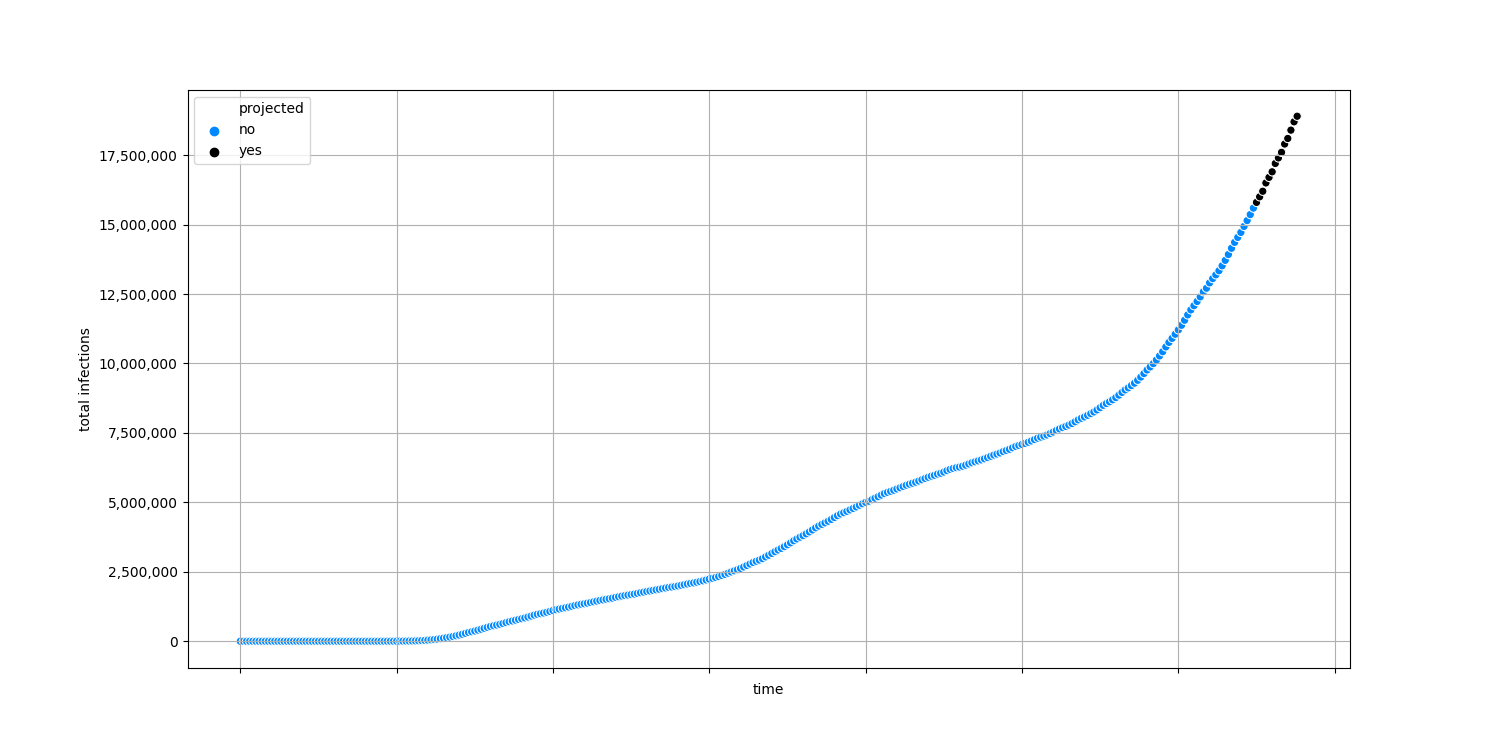
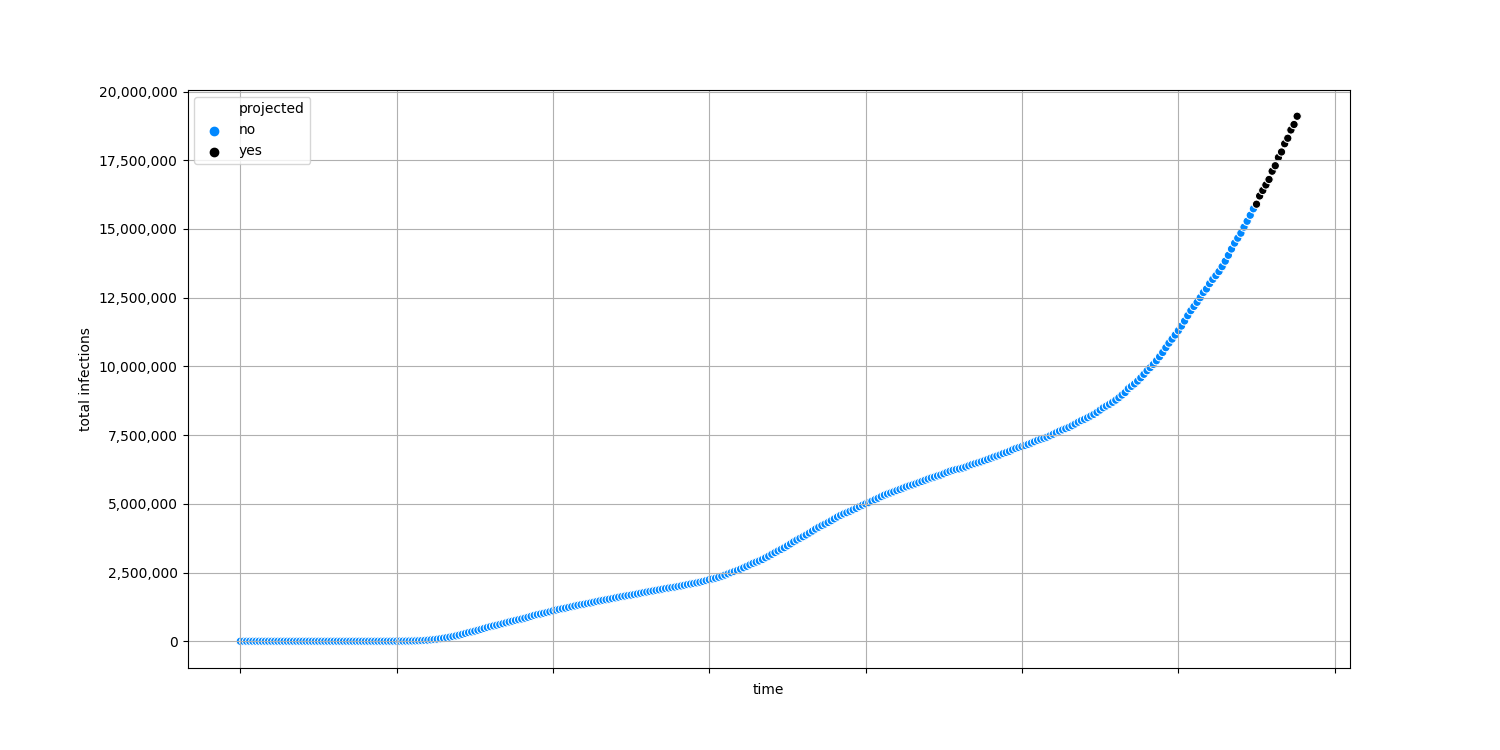
regular update

diff --git a/docs/table.html b/docs/table.html
@@ -100,7 +100,7 @@
     <script type="text/javascript">
       window.addEventListener('DOMContentLoaded', () => {
 
-        const data = [{'state': 'Alabama', 'deaths_per_million_per_day': '8', 'positive_per_million_per_day': '716'}, {'state': 'Alaska', 'deaths_per_million_per_day': '5', 'positive_per_million_per_day': '912'}, {'state': 'American Samoa', 'deaths_per_million_per_day': '0', 'positive_per_million_per_day': '0'}, {'state': 'Arizona', 'deaths_per_million_per_day': '7', 'positive_per_million_per_day': '807'}, {'state': 'Arkansas', 'deaths_per_million_per_day': '13', 'positive_per_million_per_day': '689'}, {'state': 'California', 'deaths_per_million_per_day': '4', 'positive_per_million_per_day': '671'}, {'state': 'Colorado', 'deaths_per_million_per_day': '11', 'positive_per_million_per_day': '739'}, {'state': 'Connecticut', 'deaths_per_million_per_day': '9', 'positive_per_million_per_day': '673'}, {'state': 'Delaware', 'deaths_per_million_per_day': '4', 'positive_per_million_per_day': '818'}, {'state': 'District of Columbia', 'deaths_per_million_per_day': '3', 'positive_per_million_per_day': '391'}, {'state': 'Florida', 'deaths_per_million_per_day': '5', 'positive_per_million_per_day': '426'}, {'state': 'Georgia', 'deaths_per_million_per_day': '4', 'positive_per_million_per_day': '388'}, {'state': 'Guam', 'deaths_per_million_per_day': '0', 'positive_per_million_per_day': '97'}, {'state': 'Hawaii', 'deaths_per_million_per_day': '2', 'positive_per_million_per_day': '70'}, {'state': 'Idaho', 'deaths_per_million_per_day': '9', 'positive_per_million_per_day': '914'}, {'state': 'Illinois', 'deaths_per_million_per_day': '14', 'positive_per_million_per_day': '721'}, {'state': 'Indiana', 'deaths_per_million_per_day': '12', 'positive_per_million_per_day': '966'}, {'state': 'Iowa', 'deaths_per_million_per_day': '27', 'positive_per_million_per_day': '471'}, {'state': 'Kansas', 'deaths_per_million_per_day': '13', 'positive_per_million_per_day': '870'}, {'state': 'Kentucky', 'deaths_per_million_per_day': '4', 'positive_per_million_per_day': '731'}, {'state': 'Louisiana', 'deaths_per_million_per_day': '6', 'positive_per_million_per_day': '530'}, {'state': 'Maine', 'deaths_per_million_per_day': '3', 'positive_per_million_per_day': '245'}, {'state': 'Maryland', 'deaths_per_million_per_day': '6', 'positive_per_million_per_day': '483'}, {'state': 'Massachusetts', 'deaths_per_million_per_day': '7', 'positive_per_million_per_day': '696'}, {'state': 'Michigan', 'deaths_per_million_per_day': '12', 'positive_per_million_per_day': '628'}, {'state': 'Minnesota', 'deaths_per_million_per_day': '10', 'positive_per_million_per_day': '851'}, {'state': 'Mississippi', 'deaths_per_million_per_day': '10', 'positive_per_million_per_day': '668'}, {'state': 'Missouri', 'deaths_per_million_per_day': '8', 'positive_per_million_per_day': '590'}, {'state': 'Montana', 'deaths_per_million_per_day': '7', 'positive_per_million_per_day': '771'}, {'state': 'Nebraska', 'deaths_per_million_per_day': '12', 'positive_per_million_per_day': '842'}, {'state': 'Nevada', 'deaths_per_million_per_day': '8', 'positive_per_million_per_day': '881'}, {'state': 'New Hampshire', 'deaths_per_million_per_day': '4', 'positive_per_million_per_day': '562'}, {'state': 'New Jersey', 'deaths_per_million_per_day': '6', 'positive_per_million_per_day': '573'}, {'state': 'New Mexico', 'deaths_per_million_per_day': '12', 'positive_per_million_per_day': '809'}, {'state': 'New York', 'deaths_per_million_per_day': '4', 'positive_per_million_per_day': '508'}, {'state': 'North Carolina', 'deaths_per_million_per_day': '4', 'positive_per_million_per_day': '529'}, {'state': 'North Dakota', 'deaths_per_million_per_day': '24', 'positive_per_million_per_day': '749'}, {'state': 'Northern Mariana Islands', 'deaths_per_million_per_day': '0', 'positive_per_million_per_day': '18'}, {'state': 'Ohio', 'deaths_per_million_per_day': '7', 'positive_per_million_per_day': '1,039'}, {'state': 'Oklahoma', 'deaths_per_million_per_day': '5', 'positive_per_million_per_day': '773'}, {'state': 'Oregon', 'deaths_per_million_per_day': '5', 'positive_per_million_per_day': '358'}, {'state': 'Pennsylvania', 'deaths_per_million_per_day': '12', 'positive_per_million_per_day': '786'}, {'state': 'Puerto Rico', 'deaths_per_million_per_day': '4', 'positive_per_million_per_day': '240'}, {'state': 'Rhode Island', 'deaths_per_million_per_day': '13', 'positive_per_million_per_day': '1,150'}, {'state': 'South Carolina', 'deaths_per_million_per_day': '4', 'positive_per_million_per_day': '517'}, {'state': 'South Dakota', 'deaths_per_million_per_day': '24', 'positive_per_million_per_day': '868'}, {'state': 'Tennessee', 'deaths_per_million_per_day': '10', 'positive_per_million_per_day': '851'}, {'state': 'Texas', 'deaths_per_million_per_day': '7', 'positive_per_million_per_day': '399'}, {'state': 'U.S. Virgin Islands', 'deaths_per_million_per_day': '0', 'positive_per_million_per_day': '200'}, {'state': 'Utah', 'deaths_per_million_per_day': '4', 'positive_per_million_per_day': '881'}, {'state': 'Vermont', 'deaths_per_million_per_day': '3', 'positive_per_million_per_day': '165'}, {'state': 'Virginia', 'deaths_per_million_per_day': '3', 'positive_per_million_per_day': '444'}, {'state': 'Washington', 'deaths_per_million_per_day': '3', 'positive_per_million_per_day': '366'}, {'state': 'West Virginia', 'deaths_per_million_per_day': '11', 'positive_per_million_per_day': '693'}, {'state': 'Wisconsin', 'deaths_per_million_per_day': '11', 'positive_per_million_per_day': '745'}, {'state': 'Wyoming', 'deaths_per_million_per_day': '10', 'positive_per_million_per_day': '776'}, {'state': 'United States', 'deaths_per_million_per_day': '7', 'positive_per_million_per_day': '619'}];
+        const data = [{'state': 'Alabama', 'deaths_per_million_per_day': '8', 'positive_per_million_per_day': '716'}, {'state': 'Alaska', 'deaths_per_million_per_day': '5', 'positive_per_million_per_day': '912'}, {'state': 'American Samoa', 'deaths_per_million_per_day': '0', 'positive_per_million_per_day': '0'}, {'state': 'Arizona', 'deaths_per_million_per_day': '7', 'positive_per_million_per_day': '807'}, {'state': 'Arkansas', 'deaths_per_million_per_day': '13', 'positive_per_million_per_day': '689'}, {'state': 'California', 'deaths_per_million_per_day': '4', 'positive_per_million_per_day': '671'}, {'state': 'Colorado', 'deaths_per_million_per_day': '11', 'positive_per_million_per_day': '739'}, {'state': 'Connecticut', 'deaths_per_million_per_day': '9', 'positive_per_million_per_day': '673'}, {'state': 'Delaware', 'deaths_per_million_per_day': '4', 'positive_per_million_per_day': '818'}, {'state': 'District of Columbia', 'deaths_per_million_per_day': '3', 'positive_per_million_per_day': '391'}, {'state': 'Florida', 'deaths_per_million_per_day': '5', 'positive_per_million_per_day': '426'}, {'state': 'Georgia', 'deaths_per_million_per_day': '4', 'positive_per_million_per_day': '388'}, {'state': 'Guam', 'deaths_per_million_per_day': '0', 'positive_per_million_per_day': '97'}, {'state': 'Hawaii', 'deaths_per_million_per_day': '2', 'positive_per_million_per_day': '70'}, {'state': 'Idaho', 'deaths_per_million_per_day': '9', 'positive_per_million_per_day': '914'}, {'state': 'Illinois', 'deaths_per_million_per_day': '14', 'positive_per_million_per_day': '721'}, {'state': 'Indiana', 'deaths_per_million_per_day': '12', 'positive_per_million_per_day': '966'}, {'state': 'Iowa', 'deaths_per_million_per_day': '27', 'positive_per_million_per_day': '471'}, {'state': 'Kansas', 'deaths_per_million_per_day': '13', 'positive_per_million_per_day': '870'}, {'state': 'Kentucky', 'deaths_per_million_per_day': '4', 'positive_per_million_per_day': '731'}, {'state': 'Louisiana', 'deaths_per_million_per_day': '6', 'positive_per_million_per_day': '530'}, {'state': 'Maine', 'deaths_per_million_per_day': '3', 'positive_per_million_per_day': '245'}, {'state': 'Maryland', 'deaths_per_million_per_day': '6', 'positive_per_million_per_day': '483'}, {'state': 'Massachusetts', 'deaths_per_million_per_day': '7', 'positive_per_million_per_day': '696'}, {'state': 'Michigan', 'deaths_per_million_per_day': '12', 'positive_per_million_per_day': '628'}, {'state': 'Minnesota', 'deaths_per_million_per_day': '10', 'positive_per_million_per_day': '851'}, {'state': 'Mississippi', 'deaths_per_million_per_day': '10', 'positive_per_million_per_day': '668'}, {'state': 'Missouri', 'deaths_per_million_per_day': '8', 'positive_per_million_per_day': '590'}, {'state': 'Montana', 'deaths_per_million_per_day': '7', 'positive_per_million_per_day': '771'}, {'state': 'Nebraska', 'deaths_per_million_per_day': '12', 'positive_per_million_per_day': '842'}, {'state': 'Nevada', 'deaths_per_million_per_day': '8', 'positive_per_million_per_day': '881'}, {'state': 'New Hampshire', 'deaths_per_million_per_day': '4', 'positive_per_million_per_day': '562'}, {'state': 'New Jersey', 'deaths_per_million_per_day': '6', 'positive_per_million_per_day': '573'}, {'state': 'New Mexico', 'deaths_per_million_per_day': '12', 'positive_per_million_per_day': '809'}, {'state': 'New York', 'deaths_per_million_per_day': '4', 'positive_per_million_per_day': '508'}, {'state': 'North Carolina', 'deaths_per_million_per_day': '4', 'positive_per_million_per_day': '529'}, {'state': 'North Dakota', 'deaths_per_million_per_day': '24', 'positive_per_million_per_day': '749'}, {'state': 'Northern Mariana Islands', 'deaths_per_million_per_day': '0', 'positive_per_million_per_day': '18'}, {'state': 'Ohio', 'deaths_per_million_per_day': '7', 'positive_per_million_per_day': '1,039'}, {'state': 'Oklahoma', 'deaths_per_million_per_day': '5', 'positive_per_million_per_day': '773'}, {'state': 'Oregon', 'deaths_per_million_per_day': '5', 'positive_per_million_per_day': '358'}, {'state': 'Pennsylvania', 'deaths_per_million_per_day': '12', 'positive_per_million_per_day': '786'}, {'state': 'Puerto Rico', 'deaths_per_million_per_day': '4', 'positive_per_million_per_day': '240'}, {'state': 'Rhode Island', 'deaths_per_million_per_day': '13', 'positive_per_million_per_day': '1,150'}, {'state': 'South Carolina', 'deaths_per_million_per_day': '4', 'positive_per_million_per_day': '517'}, {'state': 'South Dakota', 'deaths_per_million_per_day': '24', 'positive_per_million_per_day': '868'}, {'state': 'Tennessee', 'deaths_per_million_per_day': '10', 'positive_per_million_per_day': '851'}, {'state': 'Texas', 'deaths_per_million_per_day': '7', 'positive_per_million_per_day': '492'}, {'state': 'U.S. Virgin Islands', 'deaths_per_million_per_day': '0', 'positive_per_million_per_day': '200'}, {'state': 'Utah', 'deaths_per_million_per_day': '4', 'positive_per_million_per_day': '881'}, {'state': 'Vermont', 'deaths_per_million_per_day': '3', 'positive_per_million_per_day': '165'}, {'state': 'Virginia', 'deaths_per_million_per_day': '3', 'positive_per_million_per_day': '444'}, {'state': 'Washington', 'deaths_per_million_per_day': '3', 'positive_per_million_per_day': '366'}, {'state': 'West Virginia', 'deaths_per_million_per_day': '11', 'positive_per_million_per_day': '693'}, {'state': 'Wisconsin', 'deaths_per_million_per_day': '11', 'positive_per_million_per_day': '745'}, {'state': 'Wyoming', 'deaths_per_million_per_day': '10', 'positive_per_million_per_day': '776'}, {'state': 'United States', 'deaths_per_million_per_day': '7', 'positive_per_million_per_day': '627'}];
 
         const render = () => {
           const tbody = document.querySelector('tbody');

diff --git a/docs/index.html b/docs/index.html
@@ -74,11 +74,11 @@
         <div class="grid-col-9">
           <h1 class="font-body-2xl">
             The United States has had about 287,058 COVID-19 deaths and
-            15,592,946 confirmed cases.
+            15,733,070 confirmed cases.
             <small>
-              That's about <strong>46,984 out of every
+              That's about <strong>47,407 out of every
               1,000,000</strong> people who we know are or have
-              been infected. About <strong>1.84%</strong>
+              been infected. About <strong>1.82%</strong>
               of people who have tested positive have died.
             </small>
           </h1>
@@ -86,13 +86,13 @@
           <p class="font-body-md">
             Today there were
              <strong>
-            232,105</strong> COVID-19
+            234,810</strong> COVID-19
             cases identified.
-            There are about <strong>205,410</strong> new
+            There are about <strong>208,094</strong> new
             cases identified every day (7-day average). At the current rate, the
             average number of new cases per day will be about
-            <strong>236,000</strong> in 7 days and
-            about <strong>265,000</strong> in 14
+            <strong>239,000</strong> in 7 days and
+            about <strong>269,000</strong> in 14
             days. This chart shows the number of new cases each day since the
             first case was identified. The dots are the total number of new
             cases for each day and the line is the average of the previous seven

diff --git a/docs/TX.html b/docs/TX.html
@@ -74,11 +74,11 @@
         <div class="grid-col-9">
           <h1 class="font-body-2xl">
             Texas has had about 23,551 COVID-19 deaths and
-            1,307,878 confirmed cases.
+            1,448,002 confirmed cases.
             <small>
-              That's about <strong>45,106 out of every
+              That's about <strong>49,938 out of every
               1,000,000</strong> people who we know are or have
-              been infected. About <strong>1.8%</strong>
+              been infected. About <strong>1.63%</strong>
               of people who have tested positive have died.
             </small>
           </h1>
@@ -86,13 +86,13 @@
           <p class="font-body-md">
             Today there were
              <strong>
-            11,746</strong> COVID-19
+            14,451</strong> COVID-19
             cases identified.
-            There are about <strong>11,574</strong> new
+            There are about <strong>14,258</strong> new
             cases identified every day (7-day average). At the current rate, the
             average number of new cases per day will be about
-            <strong>14,700</strong> in 7 days and
-            about <strong>16,600</strong> in 14
+            <strong>18,200</strong> in 7 days and
+            about <strong>20,900</strong> in 14
             days. This chart shows the number of new cases each day since the
             first case was identified. The dots are the total number of new
             cases for each day and the line is the average of the previous seven
